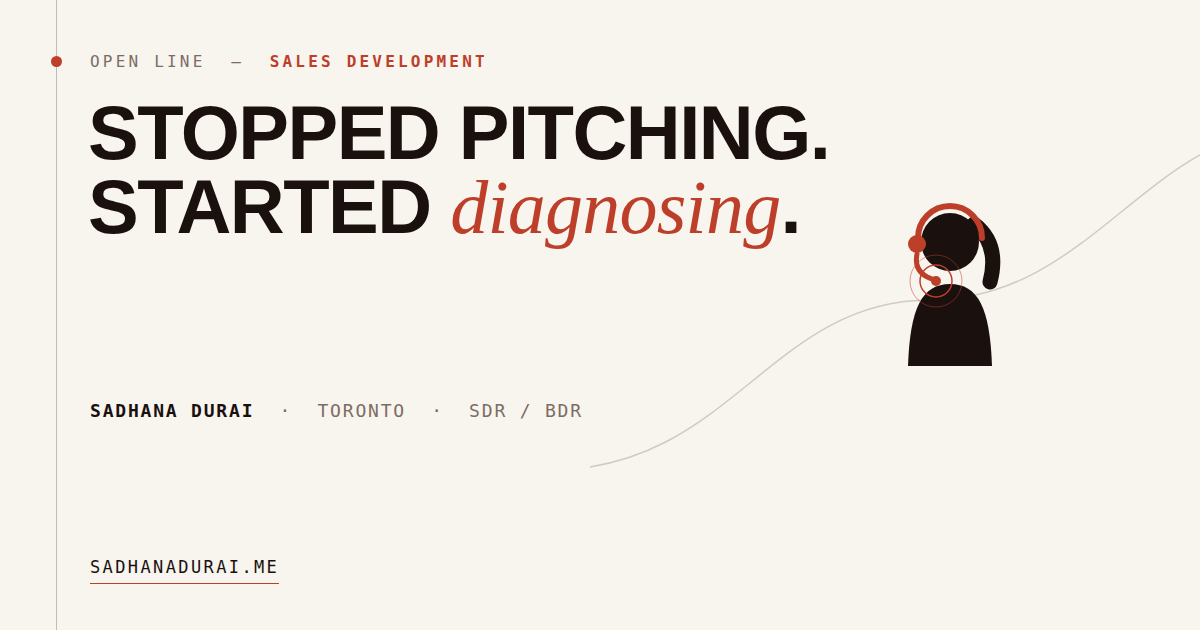
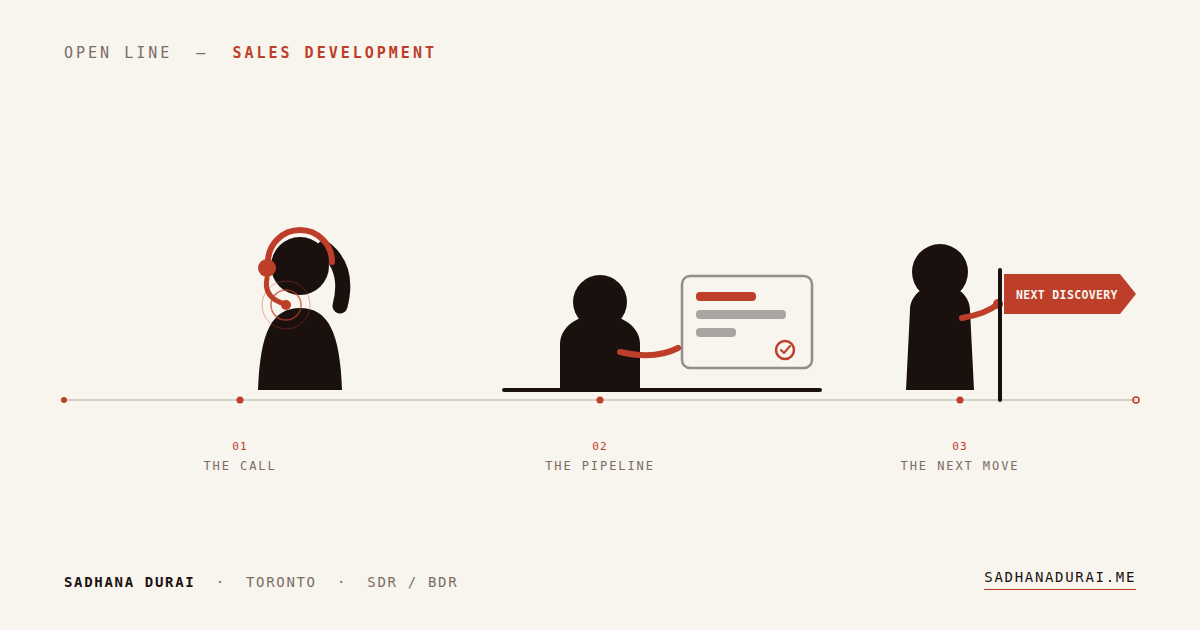
Replace share thumbnail with three-scene illustrated story
Swaps the text-headline OG image for a single consistent character
across three connected beats along one ground line: the call, the
pipeline (CRM desk), and the next move (signpost). Matches the site's
own illustration style instead of stock-style hero copy.

Claude-Session: https://claude.ai/code/session_01ND6GZART45hd62CTDv3pYM

diff --git a/index.html b/index.html
@@ -20,7 +20,7 @@
 <meta property="og:image" content="https://sadhanadurai.me/assets/og-image.png">
 <meta property="og:image:width" content="1200">
 <meta property="og:image:height" content="630">
-<meta property="og:image:alt" content="Sadhana Durai — Open Line. Toronto, SDR/BDR, ready now. 2x Bell ALL STAR, 40% call-to-meeting, 4+ years outbound.">
+<meta property="og:image:alt" content="Sadhana Durai — Open Line. An illustrated figure moves through three moments: the call, the pipeline, the next move. Toronto, SDR/BDR.">
 <meta property="og:locale" content="en_CA">
 <meta property="profile:first_name" content="Sadhana">
 <meta property="profile:last_name" content="Durai">
